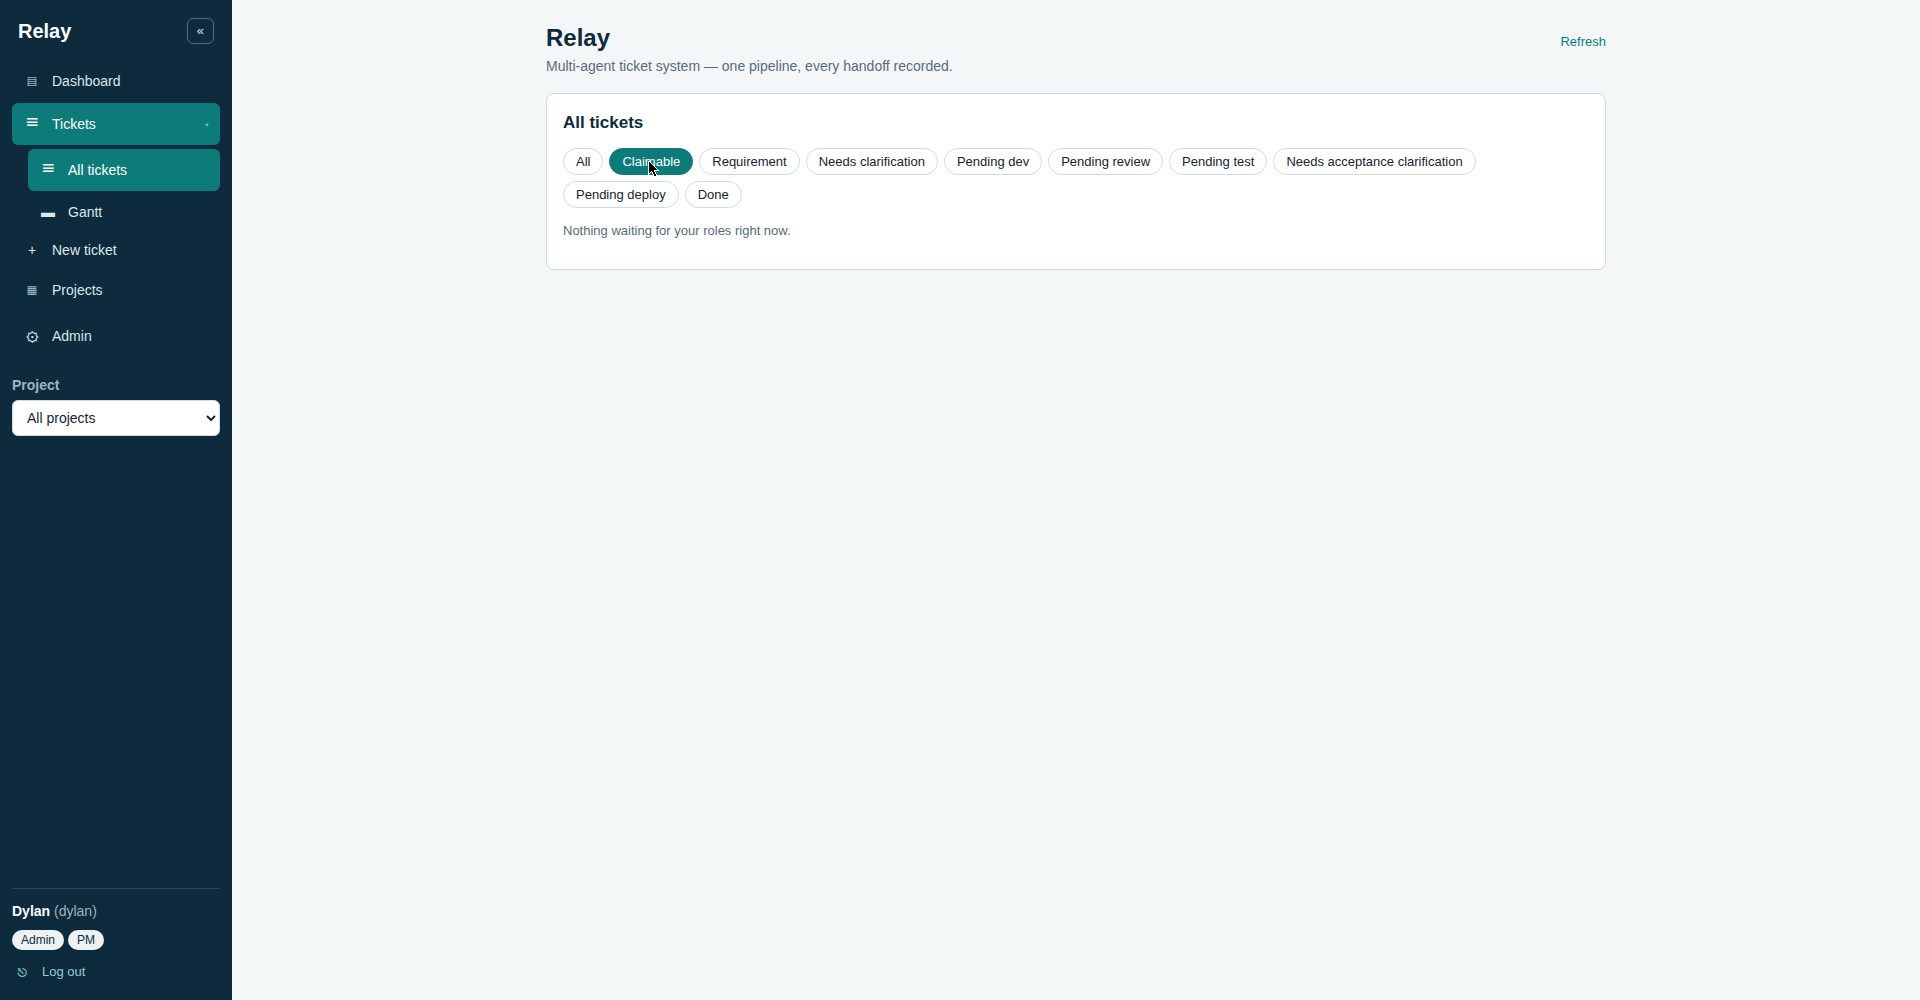
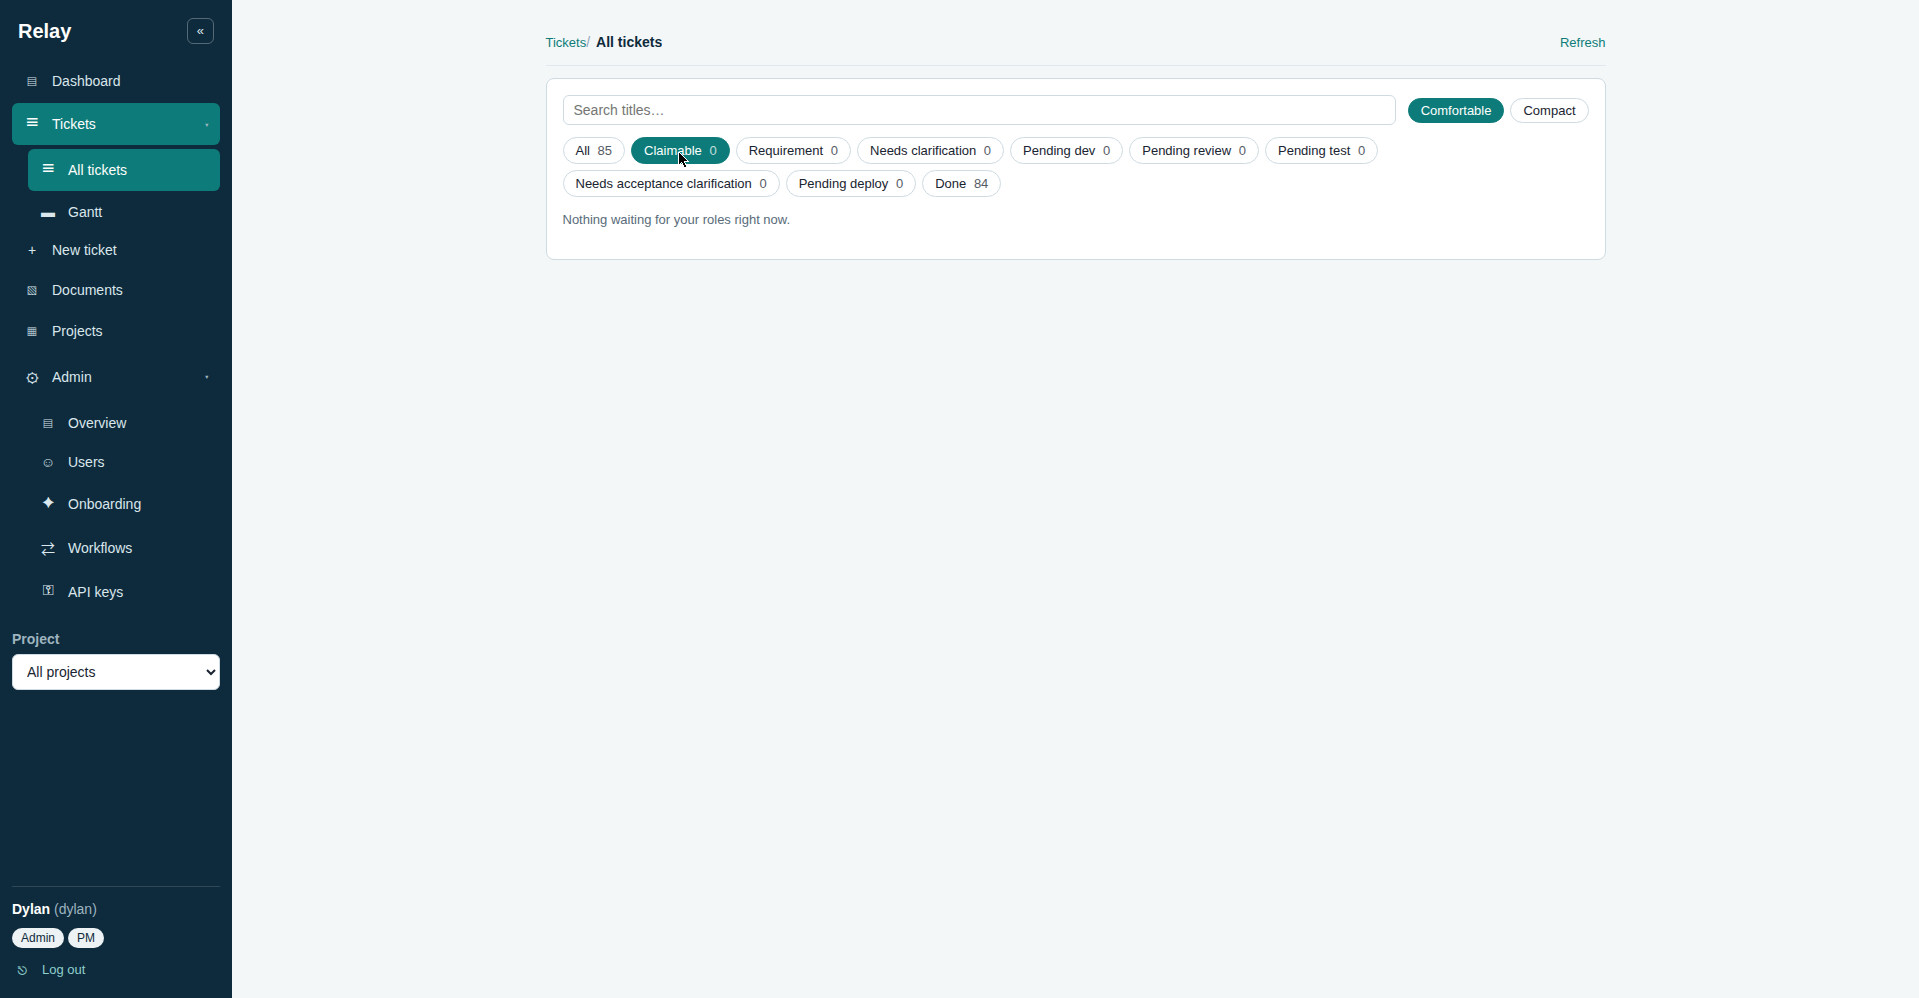
docs: re-capture README screenshots 2026-11-15 (ticket 6b1c3150)
- Re-captured dashboard, ticket-list, ticket-gantt, ticket-detail,
  projects, claimable-queue and admin-overview from the live app
  (logged in as Dylan, Admin + PM), 1920x1000, PNG.
- Screenshots were stale since 2026-11-11/12; Dashboard, Tickets
  list, Gantt, Ticket detail and Projects were all redesigned since.
- Claimable queue still genuinely empty (Claimable 0); admin-overview
  re-captured and confirmed current.
- screenshots/README.md: capture date 2026-11-15; ticket-list and
  projects rows updated to what the new shots show.

diff --git a/screenshots/README.md b/screenshots/README.md
@@ -4,7 +4,7 @@ The images referenced from the main README live in this directory.
 They are **real screenshots of the running app — no mockups, no
 generated images**.
 
-Captured 2026-11-11 from the live app at http://129.146.97.44/
+Captured 2026-11-15 from the live app at http://129.146.97.44/
 (logged in as Dylan, Admin + PM), desktop width 1920×1000, PNG.
 No editing, cropping or annotation beyond trimming the browser chrome.
 
@@ -13,11 +13,11 @@ No editing, cropping or annotation beyond trimming the browser chrome.
 | File | What it shows |
 | --- | --- |
 | `dashboard.png` | Dashboard (default page): project overview with ticket counts per project |
-| `ticket-list.png` | Tickets module, All tickets: ticket table with the project filter applied |
+| `ticket-list.png` | Tickets module, All tickets: tab counts, search, density toggle, ticket table with a next step on every tab |
 | `ticket-gantt.png` | Tickets module, Gantt sub-page: bars on the shared time axis |
 | `ticket-detail.png` | Ticket detail view ("Dashboard with Gantt chart design", Delivered) with transition history and handoff notes |
 | `claimable-queue.png` | Tickets module, Claimable tab — empty at capture time ("Nothing waiting for your roles right now."), so no next-step column is visible |
-| `projects.png` | Projects module: project list (Relay 14 tickets, WebTracker 0) |
+| `projects.png` | Projects module: project cards (Relay 80 tickets, WebTracker 1, AiAgent 4) |
 | `admin-overview.png` | Admin module, Overview sub-page: system overview and tickets by status |
 
 To retake: log in as an account with the roles each shot needs
